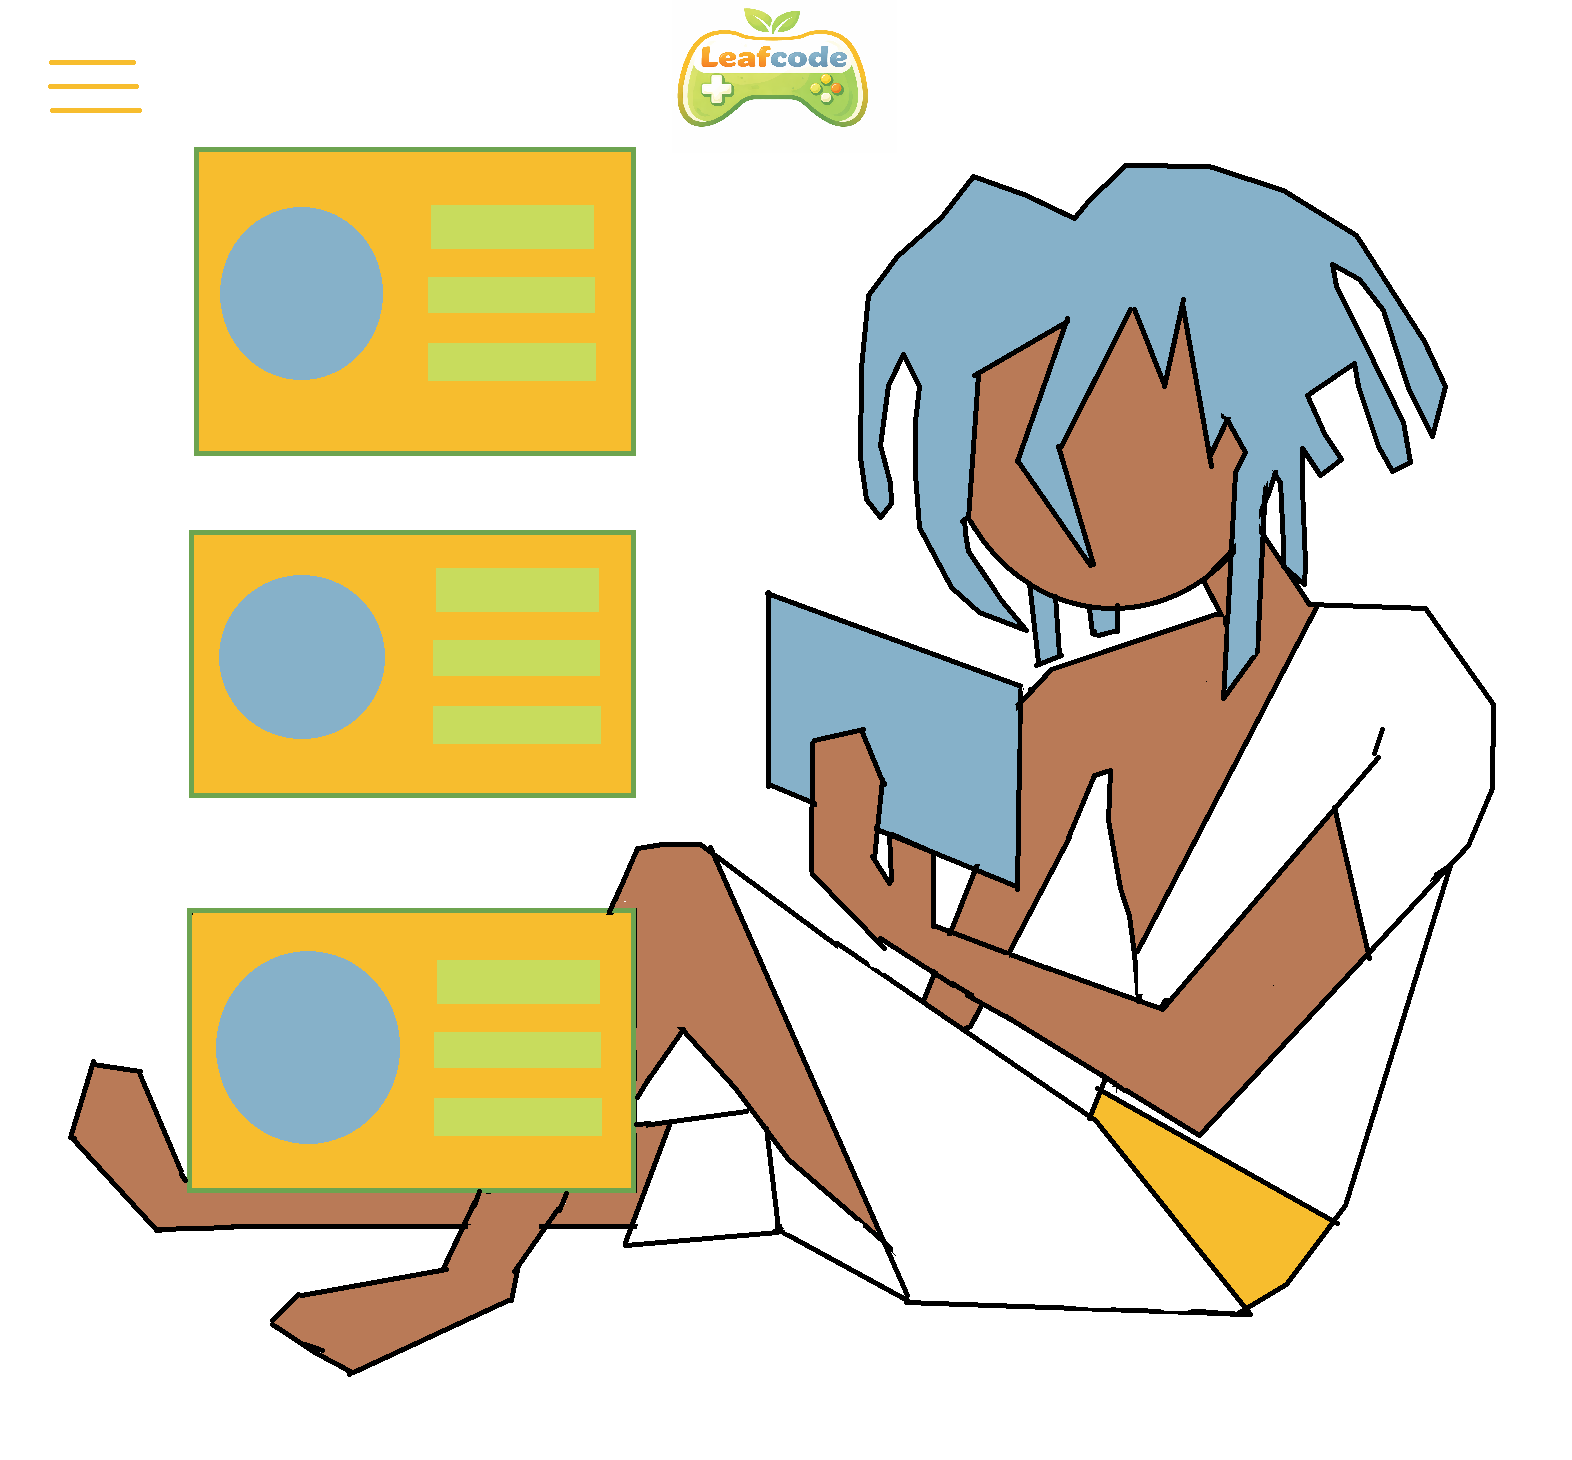
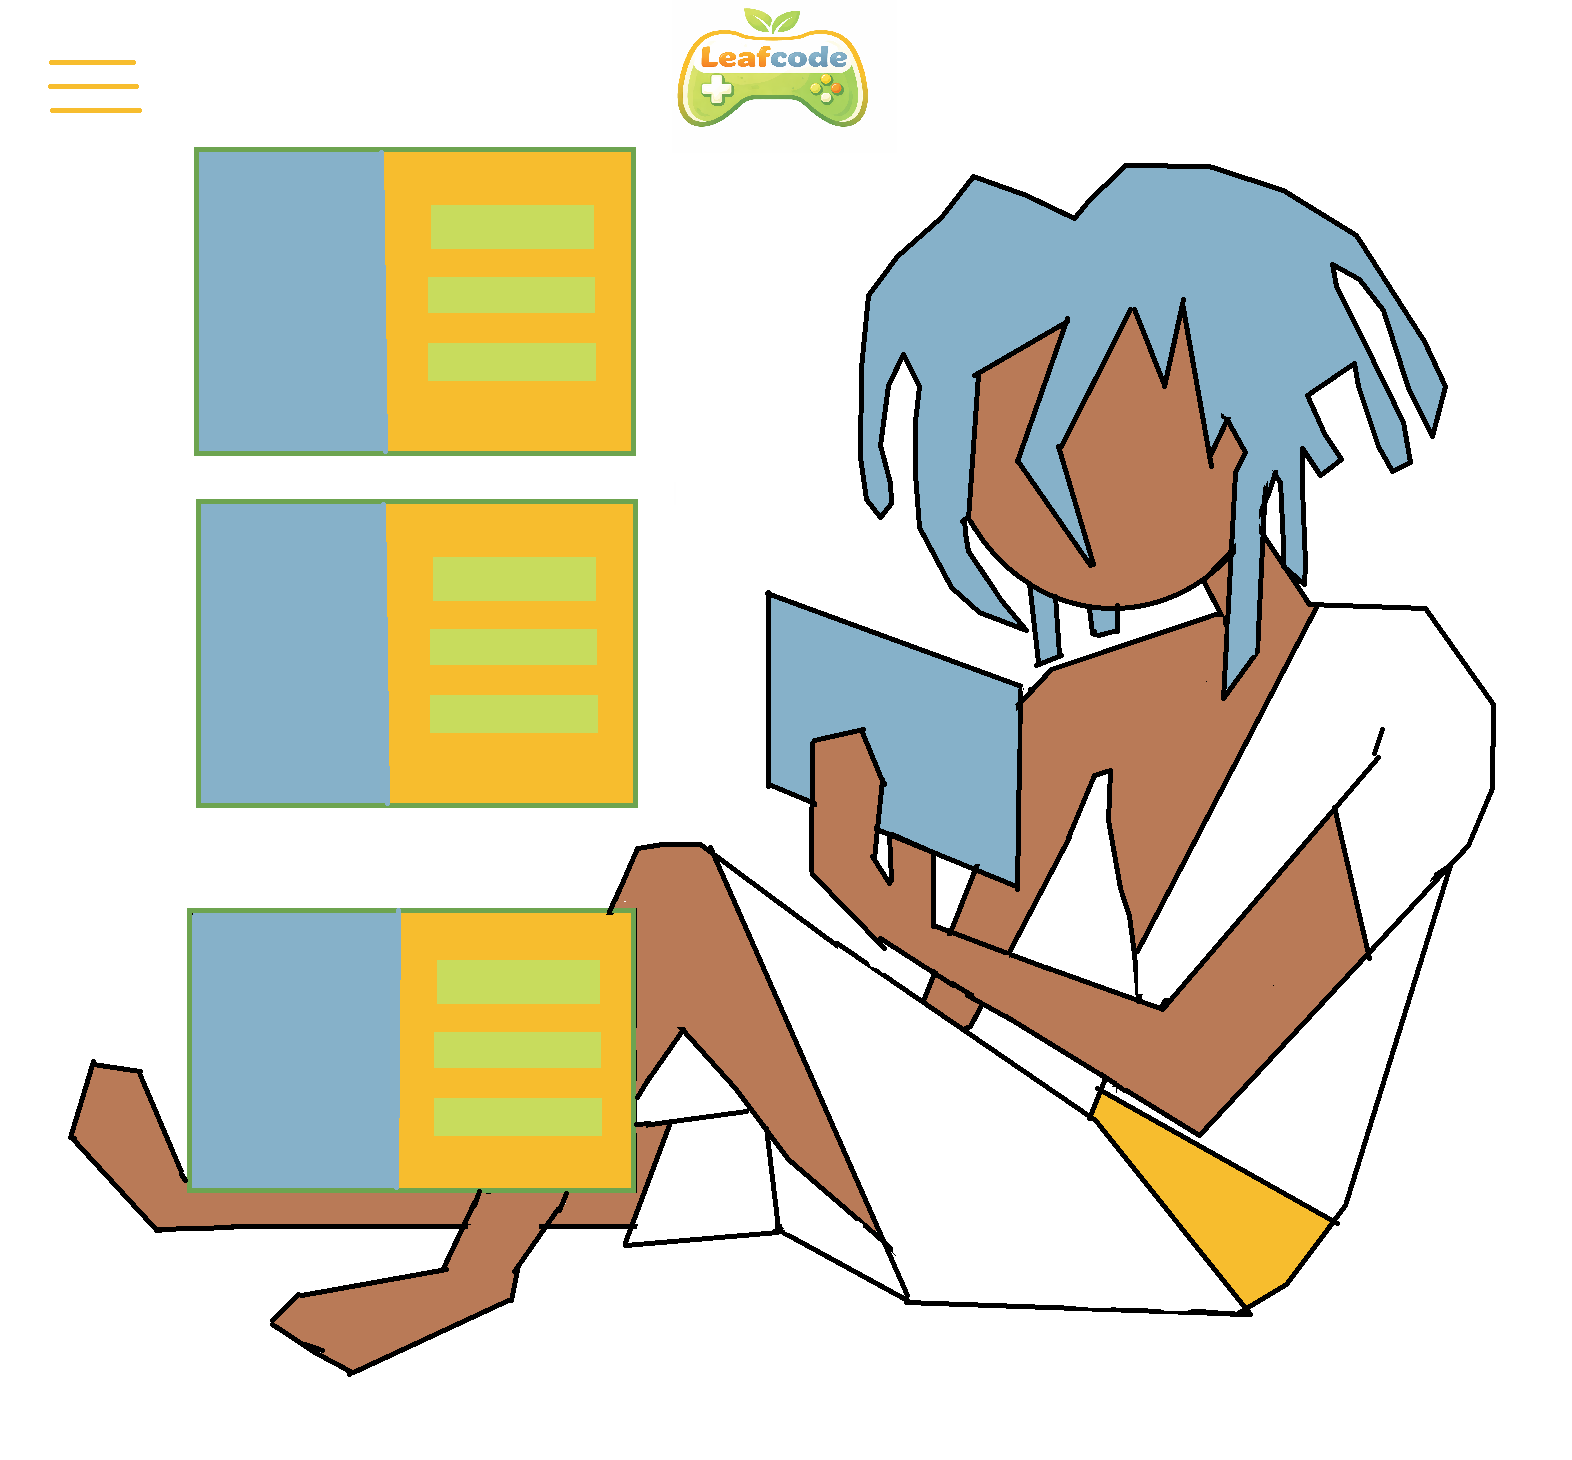
structure de toutes les pages faîte et ajout d'arrière plan à la page jeuTrois

Changed region(s): [[0.0935, 0.339, 0.4052, 0.5548], [0.1247, 0.6164, 0.2805, 0.8322], [0.1247, 0.0925, 0.2494, 0.3082]]

diff --git a/style.css b/style.css
@@ -132,7 +132,7 @@ header > div > img {
 .maPageAccueil{
   display: flex;
   flex-direction: column;
-  margin-top: 50px;
+  margin-top: 100px;
   gap: 50px;
   align-items: center;
 }
@@ -160,7 +160,6 @@ header > div > img {
 .sectionAffichageJeuAccueil{
   width:400px;
   height:210px;
-  background-color: var(--couleur-or);
 }
 
 /* la deuxième section */
@@ -192,7 +191,7 @@ header > div > img {
 .pageJeuUn{
   display: flex;
   flex-direction: column;
-  margin-top: 50px;
+  margin-top: 100px;
   gap: 75px;
   align-items: center;
 }
@@ -223,4 +222,75 @@ header > div > img {
 .selectionDePersonnageJeuUn{
   display: flex;
   gap: 10px;
+}
+
+
+/* les lignes suivantes sont nécessaires à la mise en page de la page de jeuDeux */
+
+.sectionCarteJeuDeux{
+  display: flex;
+  flex-direction: column;
+  margin-top: 100px;
+  gap:75px;
+  align-items:center;
+}
+.infoCarteJeuDeux{
+  display: flex;
+  width: 500px;
+}
+
+
+
+/* les lignes suivantes sont nécessaires à la mise en page de la page de jeuTrois */
+.sectionUniqueJeuTrois{
+  display: flex;
+  flex-direction: column;
+  margin-top: 100px;
+  gap: 150px;
+  align-items: center;
+}
+.blocHistoireJeuTrois{
+  text-align: center;
+  width: 800px;
+}
+.blocHistoireJeuTrois p{
+background-color: white;
+}
+.jeuTrois{
+  background-image: url(arrierePlanJeuTrois.png);
+  background-repeat: no-repeat;
+  background-position: center;
+  background-attachment: fixed;
+  background-size: cover;
+}
+/* les lignes suivantes sont nécessaires à la mise en page de la page de Support */
+.sectionFormulairePageSupport{
+  margin-top: 100px;
+  display:flex;
+  flex-direction:column;
+  gap: 20px;
+  align-items: center;
+}
+input{
+  border-radius: 10px;
+  width: 500px;
+  height:100px;
+}
+textarea{
+  width: 500px;
+  height: 200px;
+}
+
+button{
+  border-radius: 10px;
+  width:150px;
+  height: 50px;
+  background-color: var(--couleur-or);
+  font-family: Georgia, 'Times New Roman', Times, serif;
+  font-size: var(--moyen-Texte);
+  border: 2px solid var(--couleur-vert-feuille-plante);
+}
+button:hover{
+  border-top: 2px solid var(--couleur-vert-pelouse-pale);
+  border-left: 2px solid var(--couleur-vert-pelouse-pale);
 }

diff --git a/index.html b/index.html
@@ -4,7 +4,7 @@
     <meta charset="UTF-8">
     <meta name="viewport" content="width=device-width, initial-scale=1.0">
     <link rel="icon" type="image/x-icon" href="leafcode-LogoSiteWeb.png">
-    <title>Document</title>
+    <title>Leafcode</title>
     <link rel="stylesheet" href="style.css">
 </head>
 <body>
@@ -43,14 +43,12 @@
                     <h3>Cocci Ninja</h3>
                 </div>
             </div>
-            <div class="sectionAffichageJeuAccueil">
-
-            </div>
+            <img src="" alt="" class="sectionAffichageJeuAccueil"> 
         </section>
         <section class="deuxiemeSectionAccueil">
             <div class="sectionTextAccueil">
                 <h2>Leafcode Studio</h2>
-                <p>Bienvenue chez nous, Leafcode est une compagnie de jeu vidéo éducatif indépendant qui a pour mission de diminuer la friction lors de l'apprentissage. En jouant à nos jeux vous aimerez la lecture (L'univers d'Altius), améliorez la technique essentiel pour jouer un instrument (Rasta Bleu) et vous serez le roi de la géographie (Cocci Ninja). Oserez vous vous défier?</p>  
+                <p>Bienvenue chez nous, Leafcode est une compagnie de jeu vidéo éducatif indépendant qui a pour mission de diminuer la friction lors de l'apprentissage. En jouant à nos jeux vous aimerez la lecture (L'univers d'Altius), améliorez une technique essentielle pour jouer un instrument (Rasta Bleu) et vous serez le roi de la géographie (Cocci Ninja). Oserez vous vous défier?</p>  
             </div>
         </section>
         <section class="troisiemeSectionAccueil">

diff --git a/jeuTrois.html b/jeuTrois.html
@@ -4,10 +4,10 @@
     <meta charset="UTF-8">
     <meta name="viewport" content="width=device-width, initial-scale=1.0">
     <link rel="icon" type="image/x-icon" href="leafcode-LogoSiteWeb.png">
-    <title>Document</title>
+    <title>Leafcode</title>
     <link rel="stylesheet" href="style.css">
 </head>
-<body>
+<body class="jeuTrois">
      <div class="overlay" id="overlay"></div>
     <header>
         <div><img src="leafcode-LogoSiteWeb.png" alt="Une manette à l'envers sur laquelle est écrit leafcode avec deux feuilles de plante qui sortent sur le côté comme les feuilles d'une graine qui germe"></div>
@@ -29,8 +29,13 @@
         </nav>
     </header>
     
-    <section></section>
-    <section></section>
+    <section class="sectionUniqueJeuTrois">
+        <img src="" alt="Bannière de Cocci Ninja">
+        <div class="blocHistoireJeuTrois">
+            <h2>Que s'est-il passé?</h2>
+            <p>Des scientifiques humains étaient à la recherche d'un moyen pour nourrir la population humaine. Ayant observé à quel point que les insectes se multiplient rapidement, ils se sont dit qu'il fallait envisager comme solution de se nourir d'insectes. Afin de rendre les insectes plus appétissants, ils les ont modifiés en laboratoire pour qu'ils deviennent plus dodus. Sauf que cette modification décupla leur intelligence. Ces derniers réussissent à se sauver des laboratoires et sont dans la nature le nouveau rival de l'humain.</p>
+        </div>
+    </section>
     <footer></footer> 
     <script src="script.js"></script>
 </body>

diff --git a/jeuDeux.html b/jeuDeux.html
@@ -4,7 +4,7 @@
     <meta charset="UTF-8">
     <meta name="viewport" content="width=device-width, initial-scale=1.0">
     <link rel="icon" type="image/x-icon" href="leafcode-LogoSiteWeb.png">
-    <title>Document</title>
+    <title>Leafcode</title>
     <link rel="stylesheet" href="style.css">
 </head>
 <body>
@@ -29,8 +29,20 @@
         </nav>
     </header>
     
-    <section></section>
-    <section></section>
+    <section class="sectionCarteJeuDeux">
+        <div class="infoCarteJeuDeux">
+            <img src="" alt="Mode histoire">
+            <p>Lisez en rythme pour comprendre les cycles de la vie.</p>
+        </div>
+        <div class="infoCarteJeuDeux">
+            <img src="" alt="Image du mode de jeu.">
+            <p>Vous y êtes presque donc pas un jour sans une ligne.</p>
+        </div>
+        <div class="infoCarteJeuDeux">
+            <img src="" alt="les enjeux">
+            <p>Le chaos envahit le monde mettez y de l'ordre.</p>
+        </div>
+    </section>
     <footer></footer> 
     <script src="script.js"></script>
 </body>

diff --git a/contact.html b/contact.html
@@ -4,7 +4,7 @@
     <meta charset="UTF-8">
     <meta name="viewport" content="width=device-width, initial-scale=1.0">
     <link rel="icon" type="image/x-icon" href="leafcode-LogoSiteWeb.png">
-    <title>Document</title>
+    <title>Leafcode</title>
     <link rel="stylesheet" href="style.css">
 </head>
 <body>
@@ -29,8 +29,14 @@
         </nav>
     </header>
     
-    <section></section>
-    <section></section>
+   
+    <form class="sectionFormulairePageSupport">
+        <input type="text" placeholder="Renter votre nom complet">
+        <input type="text" placeholder="Renter votre email">
+        <textarea name="" placeholder=" Rentrer votre message"></textarea>
+        <button type="submit">Envoyer</button>
+    </form>
+
     <footer></footer>
     <script src="script.js"></script>
 </body>

diff --git a/script.js b/script.js
@@ -1,6 +1,9 @@
+// variables nécessaires pour le menu buger
 const burgerBtn =document.getElementById('burger');
 const nav =document.getElementById('nav');
 const overlay =document.getElementById('overlay');
+//variables nécessaires pour la liste de jeu dans la page d'accueil
+/*let */
 
 
 burgerBtn.addEventListener('click', ()=>{

diff --git a/jeuUn.html b/jeuUn.html
@@ -4,7 +4,7 @@
     <meta charset="UTF-8">
     <meta name="viewport" content="width=device-width, initial-scale=1.0">
     <link rel="icon" type="image/x-icon" href="leafcode-LogoSiteWeb.png">
-    <title>Document</title>
+    <title>Leafcode</title>
     <link rel="stylesheet" href="style.css">
 </head>
 <body>
